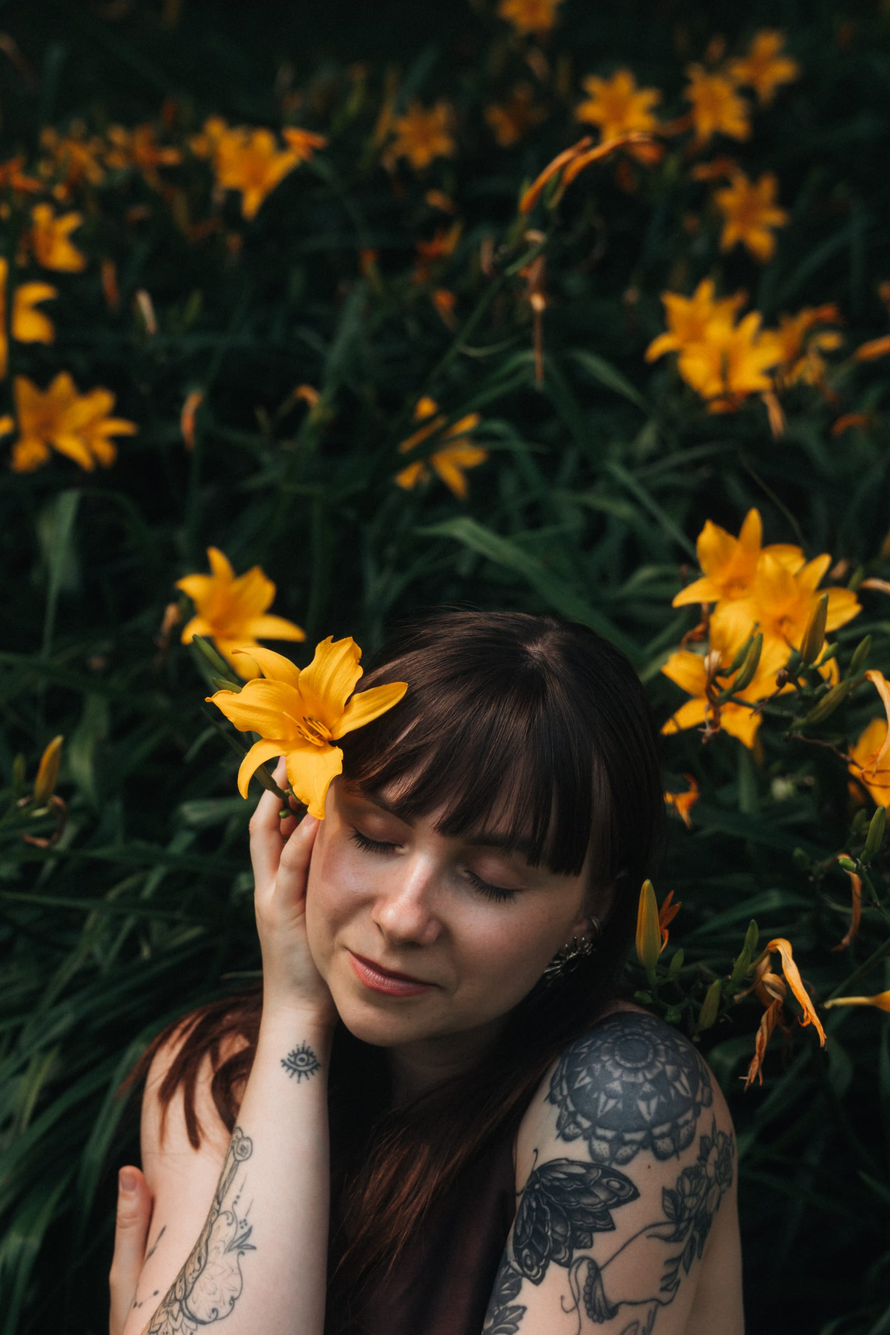
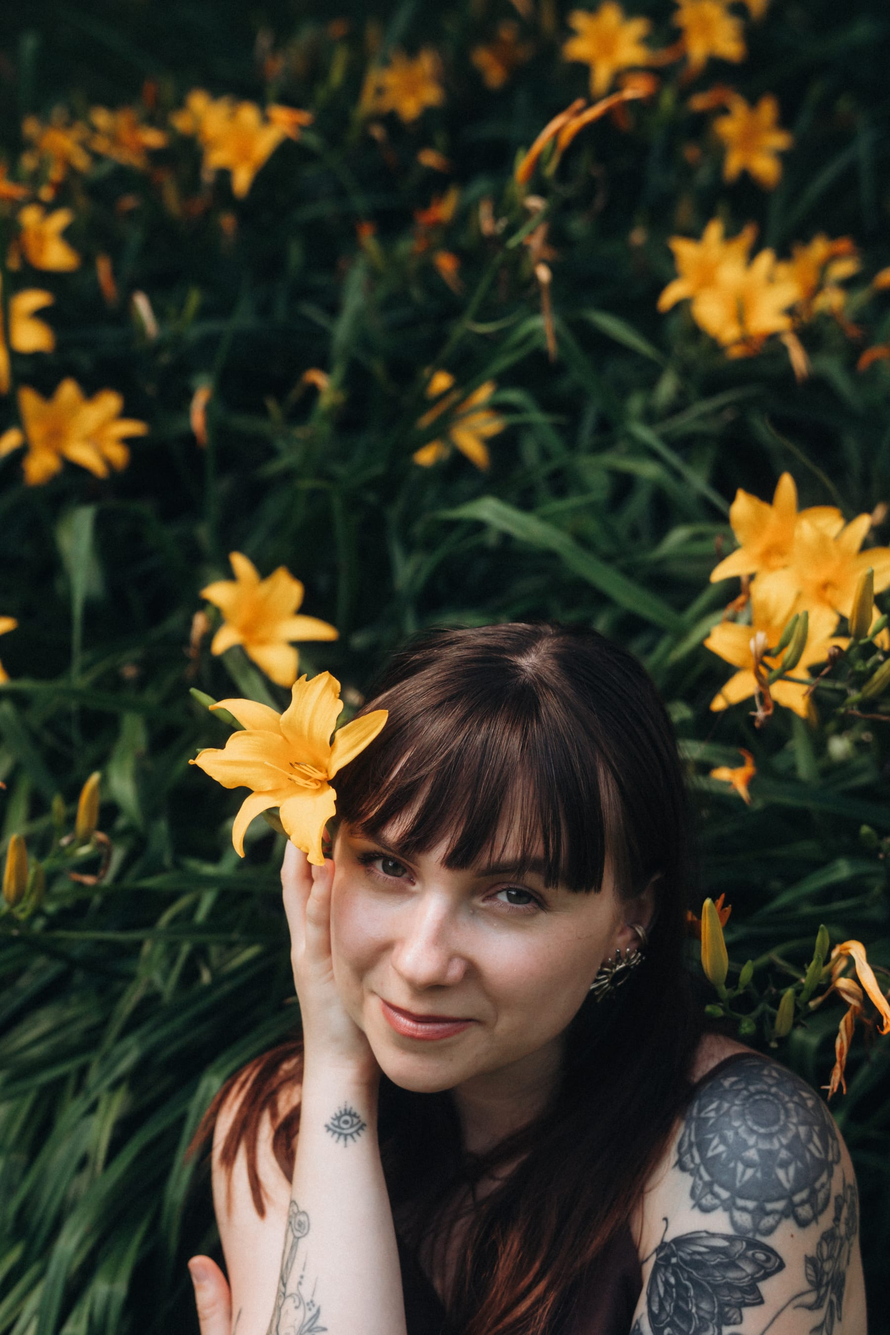
Swap hero photo to image00024, about photo to image00022

diff --git a/index.html b/index.html
@@ -346,7 +346,7 @@
       content: '';
       display: inline-block;
       width: 1.5rem; height: 1px;
-      background: var(--lavender-deep);
+      background: var(--coral);
     }
     h2 {
       font-family: var(--font-display);
@@ -392,16 +392,16 @@
       max-width: 760px;
     }
     .problema-left h2 { color: var(--cream); }
-    .problema-left h2 em { color: var(--lavender); }
-    #problema .section-label { color: var(--lavender); }
-    #problema .section-label::before { background: var(--lavender); }
+    .problema-left h2 em { color: var(--coral); }
+    #problema .section-label { color: var(--coral); }
+    #problema .section-label::before { background: var(--coral); }
     .problema-solution {
       font-size: clamp(1rem, 1.3vw, 1.12rem);
       color: rgba(250,244,234,0.85);
       margin-top: 2rem;
       line-height: 1.8;
     }
-    .problema-solution strong { color: var(--lavender); font-weight: 500; }
+    .problema-solution strong { color: var(--coral); font-weight: 500; }
     .problema-cta { margin-top: 2.2rem; }
     .problema-photo { position: relative; }
     .problema-photo img {
@@ -429,7 +429,7 @@
     }
     .pain-list li::before {
       content: '—';
-      color: var(--lavender);
+      color: var(--coral);
       flex-shrink: 0;
       margin-top: 0.1rem;
     }
@@ -552,7 +552,7 @@
       font-family: var(--font-display);
       font-size: 1.9rem;
       font-weight: 600;
-      color: var(--lavender);
+      color: var(--coral);
       line-height: 1;
       min-width: 2.6rem;
     }
@@ -956,10 +956,10 @@
       box-shadow: 0 14px 50px rgba(0,0,0,0.28);
       background: var(--cream);
     }
-    .kontaktai-inner .section-label { justify-content: center; color: var(--lavender); }
-    .kontaktai-inner .section-label::before { background: var(--lavender); }
+    .kontaktai-inner .section-label { justify-content: center; color: var(--coral); }
+    .kontaktai-inner .section-label::before { background: var(--coral); }
     .kontaktai-inner h2 { color: var(--cream); margin-bottom: 1rem; }
-    .kontaktai-inner h2 em { color: var(--lavender); }
+    .kontaktai-inner h2 em { color: var(--coral); }
     .kontaktai-sub {
       color: rgba(250,248,245,0.65);
       font-size: 0.95rem;
@@ -1285,7 +1285,7 @@
     <div class="apie-grid">
       <div class="apie-photo-wrap fade-in">
         <div class="apie-photo">
-          <img src="images/fotosesija-apie.jpg" alt="Ingrida Kuria, web dizainerė iš Vilniaus" loading="lazy" decoding="async" style="object-position: center 40%;" />
+          <img src="images/fotosesija-apie.jpg" alt="Ingrida Kuria, web dizainerė iš Vilniaus" loading="lazy" decoding="async" style="object-position: center 32%;" />
         </div>
       </div>
 
